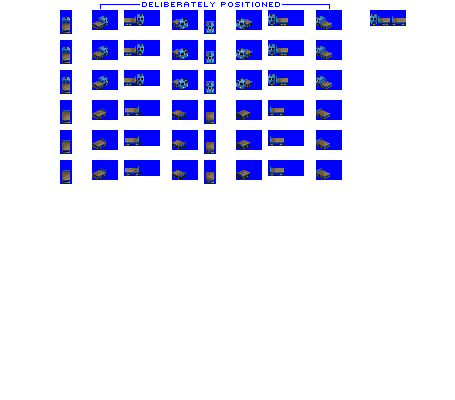
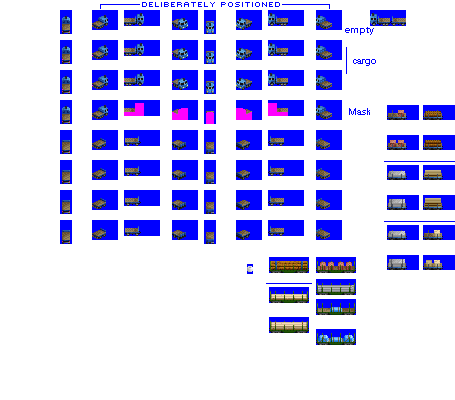
Codechange: (WIP) proof of concept piece cargo compositing

diff --git a/src/graphics_processor/pipelines.py b/src/graphics_processor/pipelines.py
@@ -115,7 +115,7 @@ class ExtendSpriterowsForCompositedCargosPipeline(Pipeline):
         crop_box_source = (0,
                            self.base_offset,
                            graphics_constants.spritesheet_width,
-                           graphics_constants.spriterow_height + self.base_offset)
+                            self.base_offset + graphics_constants.spriterow_height)
         vehicle_generic_spriterow_input_image = Image.open(self.input_path).crop(crop_box_source)
         # vehicle_generic_spriterow_input_image.show() # comment in to see the image when debugging
         vehicle_generic_spriterow_input_as_spritesheet = self.make_spritesheet_from_image(vehicle_generic_spriterow_input_image)
@@ -126,45 +126,92 @@ class ExtendSpriterowsForCompositedCargosPipeline(Pipeline):
         self.units.append(AppendToSpritesheet(vehicle_generic_spriterow_input_as_spritesheet, crop_box_dest))
 
     def add_bulk_cargo_spriterows(self):
+        cargo_group_row_height = 2 * graphics_constants.spriterow_height
         crop_box_source = (0,
                            self.base_offset,
                            graphics_constants.spritesheet_width,
-                           self.base_offset + self.unit_row_cluster_height)
+                           self.base_offset + cargo_group_row_height)
         vehicle_bulk_cargo_input_image = Image.open(self.input_path).crop(crop_box_source)
         #vehicle_bulk_cargo_input_image.show() # comment in to see the image when debugging
         vehicle_bulk_cargo_input_as_spritesheet = self.make_spritesheet_from_image(vehicle_bulk_cargo_input_image)
         crop_box_dest = (0,
                          0,
                          graphics_constants.spritesheet_width,
-                         self.unit_row_cluster_height)
+                         cargo_group_row_height)
         for bulk_cargo_recolour_map in graphics_constants.bulk_cargo_recolour_maps():
             self.units.append(AppendToSpritesheet(vehicle_bulk_cargo_input_as_spritesheet, crop_box_dest))
             self.units.append(SimpleRecolour(bulk_cargo_recolour_map))
 
     def add_piece_cargo_spriterows(self, vehicle):
-        print(vehicle.vehicle_length)
-        piece_cargo_maps = ('GOOD','PAPR')
-        crop_box_source = (0,
+        piece_cargo_maps = ('PAPR',)
+        cargo_spritesheet_bounding_boxes = ((10, 10, 18, 20), (28, 10, 36, 20), (46, 10, 58, 20), (68, 10, 76, 20))
+        cargo_group_output_row_height = 2 * graphics_constants.spriterow_height
+        # Overview
+        # 2 spriterows for the vehicle loading / loaded states, with pink loc points for cargo
+        # a mask row for the vehicle, with pink mask area, which is converted to black and white mask image
+        # an overlay for the vehicle, created from the vehicle empty state spriterow, and comped with the mask after each cargo has been placed
+        crop_box_vehicle_cargo_rows = (0,
                            self.base_offset,
                            graphics_constants.spritesheet_width,
-                           self.base_offset + self.unit_row_cluster_height)
-        vehicle_piece_cargo_input_image = Image.open(self.input_path).crop(crop_box_source)
-        #vehicle_piece_cargo_input_image.show() # comment in to see the image when debugging
-        vehicle_piece_cargo_input_as_spritesheet = self.make_spritesheet_from_image(vehicle_piece_cargo_input_image)
+                           self.base_offset + cargo_group_output_row_height)
+        vehicle_cargo_rows_image = Image.open(self.input_path).crop(crop_box_vehicle_cargo_rows)
+        #vehicle_cargo_rows_image.show()
+        crop_box_vehicle_overlay = (0,
+                           self.cur_vehicle_empty_row_offset,
+                           graphics_constants.spritesheet_width,
+                           self.cur_vehicle_empty_row_offset + graphics_constants.spriterow_height)
+        vehicle_overlay_image = Image.open(self.input_path).crop(crop_box_vehicle_overlay)
+        #vehicle_overlay_image.show()
+        crop_box_mask = (0,
+                         self.base_offset + cargo_group_output_row_height,
+                         graphics_constants.spritesheet_width,
+                         self.base_offset + cargo_group_output_row_height + graphics_constants.spriterow_height)
+        vehicle_mask = Image.open(self.input_path).crop(crop_box_mask).point(lambda i: 255 if i == 226 else 0).convert("1")
+        #vehicle_mask.show()
+        #mask and empty state will need pasting once for each of two cargo rows, so two crop boxes needed
+        crop_box_comp_dest_1 = (0,
+                                0,
+                                graphics_constants.spritesheet_width,
+                                graphics_constants.spriterow_height)
+        crop_box_comp_dest_2 = (0,
+                                graphics_constants.spriterow_height,
+                                graphics_constants.spritesheet_width,
+                                2 * graphics_constants.spriterow_height)
         crop_box_dest = (0,
                          0,
                          graphics_constants.spritesheet_width,
-                         self.unit_row_cluster_height)
-        crop_box_cargo_sprites = (0,
-                           10,
-                           graphics_constants.spritesheet_width,
-                           10 + graphics_constants.spriterow_height)
+                         cargo_group_output_row_height)
         for piece_cargo_map in piece_cargo_maps:
             cargo_sprites_input_path = os.path.join(currentdir, 'src', 'graphics', 'cargos', piece_cargo_map + '.png')
-            cargo_sprites_input_image = Image.open(cargo_sprites_input_path).crop(crop_box_cargo_sprites)
-            #cargo_sprites_input_image.show() # comment in to see the image when debugging
-            cargo_sprites_input_as_spritesheet = self.make_spritesheet_from_image(cargo_sprites_input_image)
-            self.units.append(AppendToSpritesheet(vehicle_piece_cargo_input_as_spritesheet, crop_box_dest))
+            cargo_sprites_input_image = Image.open(cargo_sprites_input_path)
+            cargo_sprites = []
+            # build a list, with a two-tuple (cargo_sprite, mask) for each of 4 angles
+            # cargo sprites are assumed to be symmetrical, only 4 angles are needed
+            # for cargos with 8 angles (e.g. bulldozers), provide those manually as custom cargos?
+            for i in cargo_spritesheet_bounding_boxes:
+                cargo_sprite = cargo_sprites_input_image.copy()
+                cargo_sprite = cargo_sprite.crop(i)
+                cargo_mask = cargo_sprite.copy().convert("1")
+                cargo_sprites.append((cargo_sprite, cargo_mask))
+            # get the loc points
+            loc_points = [pixel for pixel in pixascan(vehicle_cargo_rows_image) if pixel[2] == 226]
+            # paste the empty state over the cargo rows (this will obliterate the pink loc points)
+            vehicle_cargo_rows_image.paste(vehicle_overlay_image, crop_box_comp_dest_1)
+            vehicle_cargo_rows_image.paste(vehicle_overlay_image, crop_box_comp_dest_2)
+            vehicle_cargo_rows_image.show()
+            for pixel in loc_points:
+                cargo_width = cargo_sprites[0][0].size[0]
+                cargo_height = cargo_sprites[0][0].size[1]
+                cargo_bounding_box = (pixel[0],
+                                      pixel[1] - cargo_height,
+                                      pixel[0] + cargo_width,
+                                      pixel[1])
+                vehicle_cargo_rows_image.paste(cargo_sprites[0][0], cargo_bounding_box, cargo_sprites[0][1])
+            #vehicle_cargo_rows_image.paste(vehicle_overlay_image, crop_box_comp_dest_1, vehicle_mask)
+            #vehicle_cargo_rows_image.paste(vehicle_overlay_image, crop_box_comp_dest_2, vehicle_mask)
+            vehicle_cargo_rows_image.show()
+            vehicle_cargo_rows_as_spritesheet = self.make_spritesheet_from_image(vehicle_cargo_rows_image)
+            self.units.append(AppendToSpritesheet(vehicle_cargo_rows_as_spritesheet, crop_box_dest))
 
     def render(self, variant, consist):
         # there are various options for controlling the crop box, I haven't documented them - read example uses to figure them out
@@ -175,8 +222,8 @@ class ExtendSpriterowsForCompositedCargosPipeline(Pipeline):
         # the cumulative_spriterow_count updates per processed group of spriterows, and is key to making this work
         cumulative_spriterow_count = 0
         for vehicle_counter, vehicle_rows in enumerate(consist.get_spriterows_for_consist_or_subpart(consist.unique_units)):
+            self.cur_vehicle_empty_row_offset = 10 + cumulative_spriterow_count * graphics_constants.spriterow_height
             for spriterow_type, spriterow_count in vehicle_rows:
-                self.unit_row_cluster_height = spriterow_count * graphics_constants.spriterow_height
                 self.base_offset = 10 + (graphics_constants.spriterow_height * cumulative_spriterow_count)
                 if spriterow_type == 'always_use_same_spriterow' or spriterow_type == 'empty':
                     self.add_generic_spriterow()

diff --git a/src/road_vehicle.py b/src/road_vehicle.py
@@ -168,7 +168,7 @@ class Consist(object):
     def get_spriterows_for_consist_or_subpart(self, units):
         # pass either list of all units in consist, or a slice of the consist starting from front (arbitrary slices not useful)
         # used for graphics processing and by nml sprite templating
-        # returns counts of rows and keys to what they are
+        # returns counts of rows from the template and keys to what they are
         result = []
         for unit in units:
             unit_rows = []
@@ -185,7 +185,7 @@ class Consist(object):
                 if 'bulk_cargo' in self.cargo_graphics_options.keys():
                     unit_rows.append(('bulk_cargo', 2))
                 if 'piece_cargo' in self.cargo_graphics_options.keys():
-                    unit_rows.append(('piece_cargo', 2))
+                    unit_rows.append(('piece_cargo', 3))
                 # custom is to allow for manually drawn cargos
                 if 'custom_cargo' in self.cargo_graphics_options.keys():
                     unit_rows.append(('custom_cargo', 2))
